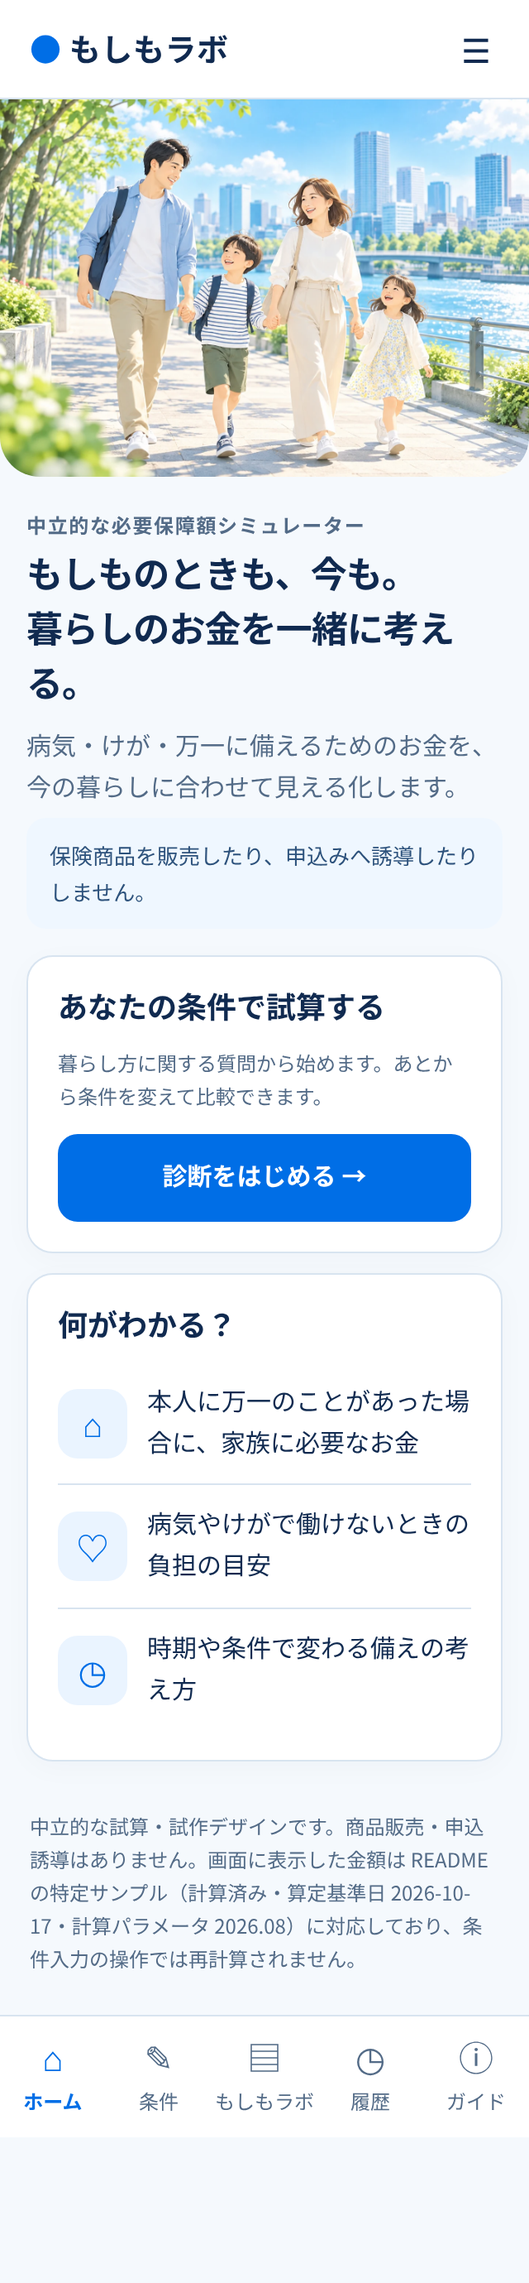
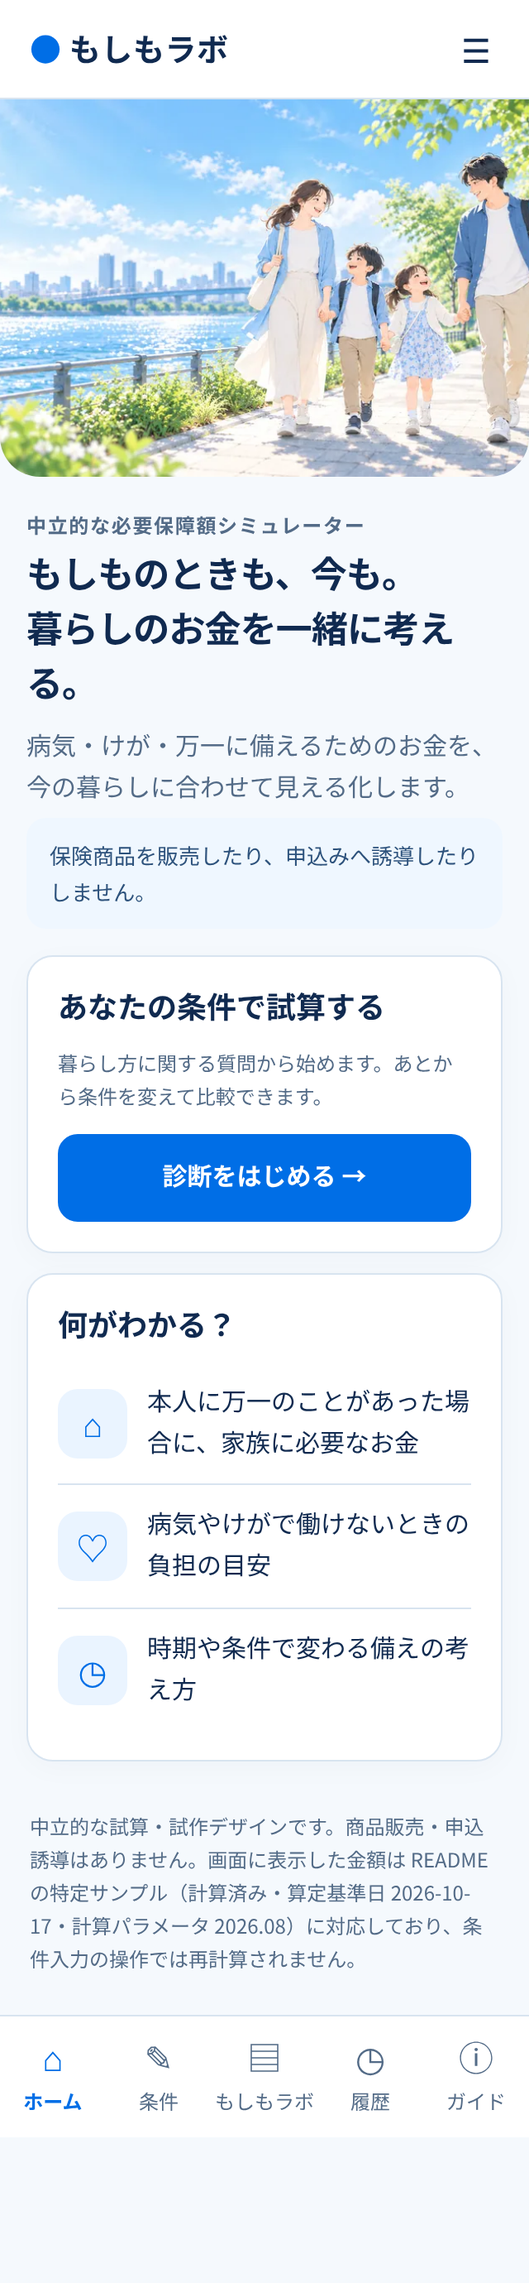
design: ホームを横長の家族イラストに差し替え、受け取った6枚の確認を ASSET_GAPS に書く
Claude-Session: https://claude.ai/code/session_01Fzmq9nUFPsWJRPivmmEeQQ

Changed region(s): [[0.0, 0.0312, 1.0, 0.2183]]

diff --git a/design/handoff/moshimo-lab-v2/prototype/index.html b/design/handoff/moshimo-lab-v2/prototype/index.html
@@ -1,7 +1,7 @@
 <!doctype html><html lang="ja"><head><meta charset="utf-8"><meta name="viewport" content="width=device-width,initial-scale=1"><title>もしもラボ｜UI Design Prototype（レビュー修正版）</title><style>
 :root{--ink:#102A50;--sub:#536B87;--blue:#006EE6;--light:#EAF4FF;--bg:#F5F9FD;--line:#D8E4F0;--green:#16734A;--orange:#925300;--card:#fff;--radius:16px;--focus-inner:#ffd43d;--focus-outer:#000}*{box-sizing:border-box}html{background:#dce8f3}body{margin:0;color:var(--ink);font:15px/1.65 'Noto Sans JP',-apple-system,BlinkMacSystemFont,'Hiragino Kaku Gothic ProN',sans-serif}button,input,select{font:inherit}button{cursor:pointer}.shell{width:min(100%,390px);min-height:100vh;margin:auto;background:var(--bg);box-shadow:0 10px 50px #173a5b25;padding-bottom:88px}.top{display:flex;align-items:center;justify-content:space-between;height:60px;background:white;padding:0 10px 0 18px;position:sticky;top:0;z-index:9;border-bottom:1px solid var(--line)}.brand{font-size:19px;font-weight:800;letter-spacing:.015em}.brand-dot{color:var(--blue)}.menu{border:0;background:none;color:var(--ink);font-size:20px;min-width:44px;min-height:44px;border-radius:10px}.screen{display:none}.screen.active{display:block}.section{padding:20px 16px 4px}.eyebrow{font-size:12px;color:var(--sub);font-weight:700;letter-spacing:.07em}.title{font-size:24px;line-height:1.4;letter-spacing:-.03em;margin:6px 0 8px;font-weight:800}.h2{font-size:18px;line-height:1.4;font-weight:800;margin:0 0 10px}.muted,.small{color:var(--sub)}.small{font-size:12px}.card{background:var(--card);border:1px solid var(--line);border-radius:var(--radius);padding:18px;margin:12px 16px;box-shadow:0 4px 18px #102a5007}.hero{position:relative;height:228px;overflow:hidden;background:linear-gradient(160deg,#e4f5ff,#fff);border-radius:0 0 24px 24px}.hero img{height:100%;width:100%;object-fit:cover;object-position:center;display:block}.hero-copy{font-size:22px;line-height:1.5;font-weight:800;letter-spacing:-.02em;margin:2px 0 10px}.btn{background:var(--blue);color:white;border:1px solid var(--blue);padding:13px 14px;border-radius:12px;font-weight:700;min-height:48px;text-align:center}.btn.secondary{color:var(--blue);background:white}.btn.quiet{color:var(--ink);background:var(--bg);border-color:var(--line)}.btn.full{width:100%}:where(a,button,input,select,summary,[tabindex]):focus-visible{outline:2px solid var(--focus-inner);outline-offset:0;box-shadow:0 0 0 4px var(--focus-outer)}.btnrow{display:flex;gap:8px}.btnrow>*{flex:1}.amount{color:var(--blue);font-size:28px;line-height:1.35;letter-spacing:-.05em;font-weight:800;margin:6px 0}.amount span{display:inline-block}.label{font-size:12px;color:var(--sub)}.badge{display:inline-flex;align-items:center;gap:4px;font-size:12px;padding:3px 10px;border-radius:99px;font-weight:700;line-height:1.5}.badge i{font-style:normal}.badge.good{color:var(--green);background:#E8F6EC}.badge.warn{color:var(--orange);background:#FFF1DE}.badge.unknown{color:#506A84;background:#EEF3F8}.hr{border:0;border-top:1px solid var(--line);margin:15px 0}.item{display:flex;align-items:center;gap:12px;padding:12px 0;border-bottom:1px solid var(--line)}.item:last-child{border-bottom:0}.iconbox{display:grid;place-items:center;width:42px;height:42px;background:var(--light);border-radius:12px;color:var(--blue);font-size:20px;flex-shrink:0}.grow{flex:1}.money{font-size:16px;color:var(--blue);font-weight:800}.tiny{font-size:12px;color:var(--sub)}.frow{display:flex;align-items:center;justify-content:space-between;gap:8px}.field{display:block;margin:18px 0}.field b{display:block;margin:0 0 7px;font-size:14px}.select{width:100%;min-height:48px;border:1px solid #B5CAE1;background:white;border-radius:10px;padding:10px;color:var(--ink)}.choicegroup{display:grid;grid-template-columns:repeat(2,1fr);gap:9px}.choice{min-height:54px;border:1px solid #c8d7e8;background:white;color:var(--ink);border-radius:12px;font-weight:700}.choice.on{border:2px solid var(--blue);background:#EAF4FF;color:#0054BD}.progress{height:5px;border-radius:5px;background:#DFE9F2;overflow:hidden}.progress i{display:block;width:40%;height:100%;background:var(--blue);border-radius:5px}.note{background:#EFF7FF;border-radius:12px;padding:12px 14px;color:#2D527C;font-size:13px}.note.warning{background:#FFF8EB;color:#795011}.graph{width:100%;height:auto;display:block}.graph text{font-size:12px;fill:#536B87}.graph .grid{stroke:#dde6ef;stroke-width:1}.range{fill:#f7d7bf}.curve{fill:none;stroke:#D76A2B;stroke-width:3;stroke-linecap:round;stroke-linejoin:round}.dot{fill:#D76A2B;stroke:#fff;stroke-width:2}.guide-line{stroke:#D76A2B;stroke-width:1;stroke-dasharray:3 3}.legend{display:flex;flex-wrap:wrap;gap:4px 14px;font-size:12px;color:var(--sub);margin:4px 0 8px}.legend i{display:inline-block;width:18px;height:10px;border-radius:3px;margin-right:5px;vertical-align:-1px}.legend .lg-range{background:#f7d7bf}.legend .lg-curve{height:3px;background:#D76A2B;vertical-align:3px}.slider{width:100%;accent-color:var(--blue);height:44px;margin:0}.ends{display:flex;justify-content:space-between;font-size:12px;color:var(--sub);margin-top:-6px}.bottom{position:fixed;bottom:0;left:50%;transform:translateX(-50%);width:min(100%,390px);height:74px;display:flex;background:#fff;border-top:1px solid var(--line);z-index:11}.navbtn{flex:1;background:none;border:0;color:var(--sub);display:flex;flex-direction:column;align-items:center;justify-content:center;gap:2px;padding:7px 1px;font-size:12px}.navbtn span{font-size:21px;line-height:1.3}.navbtn.on{color:var(--blue);font-weight:800}.padded{padding:0 16px}.details{padding:4px 0 12px;font-size:13px;color:var(--sub)}.details ul{margin:0;padding-left:1.2em}.details li{margin:4px 0}details{border-top:1px solid var(--line);margin-top:12px}summary{font-weight:700;cursor:pointer;min-height:44px;display:flex;align-items:center;gap:6px;list-style:none}summary::-webkit-details-marker{display:none}summary::before{content:'';flex-shrink:0;width:0;height:0;border-left:6px solid currentColor;border-top:5px solid transparent;border-bottom:5px solid transparent;transition:transform .15s}details[open]>summary::before{transform:rotate(90deg)}.foot{font-size:12px;color:var(--sub);padding:18px 18px 24px}.empty{border:1px dashed #bbcfe5;border-radius:13px;padding:18px;text-align:center;color:var(--sub)}.scenario{background:none;border:0;border-bottom:1px solid var(--line);width:100%;text-align:left;color:inherit;min-height:44px}.scenario b{font-size:13px}.chev{color:var(--sub);font-size:18px}.meaning{padding:12px 0;border-bottom:1px solid var(--line)}.meaning p{margin:6px 0 0}.kv{display:flex;justify-content:space-between;gap:12px;font-size:13px;padding:6px 0;border-bottom:1px dashed var(--line)}.kv:last-child{border-bottom:0}table.ages{width:100%;border-collapse:collapse;font-size:13px}table.ages th,table.ages td{text-align:left;padding:6px 4px;border-bottom:1px solid var(--line)}table.ages td:last-child,table.ages th:last-child{text-align:right}.sr{position:absolute;width:1px;height:1px;overflow:hidden;clip:rect(0 0 0 0);white-space:nowrap}
 </style></head><body><main class="shell"><header class="top"><div class="brand"><span class="brand-dot" aria-hidden="true">●</span> もしもラボ</div><button class="menu" aria-label="結果の見方ガイドへ" title="結果の見方ガイドへ" onclick="show('guide')"><span aria-hidden="true">☰</span></button></header>
-<section class="screen active" id="home"><div class="hero"><img src="../assets/family-riverside.webp" alt="川辺を散歩する4人の家族"></div><div class="section"><div class="eyebrow">中立的な必要保障額シミュレーター</div><h1 class="hero-copy">もしものときも、今も。<br>暮らしのお金を一緒に考える。</h1><p class="muted" style="margin:6px 0">病気・けが・万一に備えるためのお金を、今の暮らしに合わせて見える化します。</p><div class="note">保険商品を販売したり、申込みへ誘導したりしません。</div></div><div class="card"><h2 class="h2">あなたの条件で試算する</h2><p class="small">暮らし方に関する質問から始めます。あとから条件を変えて比較できます。</p><button class="btn full" onclick="show('input')">診断をはじめる <span aria-hidden="true">→</span></button></div><div class="card"><h2 class="h2">何がわかる？</h2><div class="item"><div class="iconbox" aria-hidden="true">⌂</div><div>本人に万一のことがあった場合に、家族に必要なお金</div></div><div class="item"><div class="iconbox" aria-hidden="true">♡</div><div>病気やけがで働けないときの負担の目安</div></div><div class="item"><div class="iconbox" aria-hidden="true">◷</div><div>時期や条件で変わる備えの考え方</div></div></div></section>
+<section class="screen active" id="home"><div class="hero"><img src="../assets/family-riverside-wide-800.webp" srcset="../assets/family-riverside-wide-800.webp 800w, ../assets/family-riverside-wide.webp 1280w" sizes="(max-width: 390px) 100vw, 390px" alt="川辺を散歩する4人の家族"></div><div class="section"><div class="eyebrow">中立的な必要保障額シミュレーター</div><h1 class="hero-copy">もしものときも、今も。<br>暮らしのお金を一緒に考える。</h1><p class="muted" style="margin:6px 0">病気・けが・万一に備えるためのお金を、今の暮らしに合わせて見える化します。</p><div class="note">保険商品を販売したり、申込みへ誘導したりしません。</div></div><div class="card"><h2 class="h2">あなたの条件で試算する</h2><p class="small">暮らし方に関する質問から始めます。あとから条件を変えて比較できます。</p><button class="btn full" onclick="show('input')">診断をはじめる <span aria-hidden="true">→</span></button></div><div class="card"><h2 class="h2">何がわかる？</h2><div class="item"><div class="iconbox" aria-hidden="true">⌂</div><div>本人に万一のことがあった場合に、家族に必要なお金</div></div><div class="item"><div class="iconbox" aria-hidden="true">♡</div><div>病気やけがで働けないときの負担の目安</div></div><div class="item"><div class="iconbox" aria-hidden="true">◷</div><div>時期や条件で変わる備えの考え方</div></div></div></section>
 <section class="screen" id="input"><div class="section"><div class="eyebrow">STEP 2 / 5　暮らしの条件</div><div class="progress" role="progressbar" aria-label="入力の進み具合" aria-valuemin="1" aria-valuemax="5" aria-valuenow="2"><i></i></div><h1 class="title">今の暮らしについて<br>教えてください</h1><p class="muted">試算に必要な条件を確認します。実際の実装では計算エンジンが要求するすべての入力を保持します。</p></div><div class="card"><div class="field" role="group" aria-labelledby="familyLabel"><b id="familyLabel">家族構成</b><div class="choicegroup" id="familyChoices"><button class="choice" aria-pressed="false" onclick="choose(this)">単身</button><button class="choice" aria-pressed="false" onclick="choose(this)">夫婦のみ</button><button class="choice on" aria-pressed="true" onclick="choose(this)">夫婦＋子ども</button><button class="choice" aria-pressed="false" onclick="choose(this)">その他</button></div></div><label class="field"><b>本人の年齢</b><select class="select" id="age"><option>30歳</option><option selected>40歳</option><option>50歳</option><option>60歳</option></select></label><label class="field"><b>本人の年収</b><select class="select"><option selected>400万円以下</option><option>400〜600万円</option><option>600〜800万円</option><option>800〜1000万円</option><option>1000万円以上</option><option>答えたくない</option></select></label><label class="field"><b>現在の貯蓄</b><select class="select"><option selected>100万円以下</option><option>100〜300万円</option><option>300〜500万円</option><option>500〜1000万円</option><option>1000万円以上</option><option>分からない</option></select></label><div class="note">本画面はUI試作です。入力内容は保存・計算されません。選択肢の言葉は現行の質問（<code>src/wizard/labels.ts</code>）に合わせています。</div></div><div class="padded btnrow"><button class="btn secondary" onclick="show('home')">戻る</button><button class="btn" onclick="show('summary')">結果表示例へ <span aria-hidden="true">→</span></button></div></section>
 <section class="screen" id="summary"><div class="section"><div class="eyebrow">診断サマリー・サンプル</div><h1 class="title">必要なお金の目安を<br>確認しましょう</h1><p class="small">下記は特定のサンプル条件で計算済みの参考値です。今の画面入力には連動していません。</p></div><div class="card"><div class="small">本人が40歳で万一のことがあった場合</div><div class="label">必要な死亡保障の目安</div><div class="amount" id="summaryAmount"></div><span id="summaryBadge"></span><hr class="hr"><h2 class="h2">年齢による変化</h2><div class="legend" aria-hidden="true"><span><i class="lg-range"></i>必要額の幅</span><span><i class="lg-curve"></i>代表値</span></div><div id="summaryChart"></div><p class="small">計算済みサンプルの40〜64歳・25年分の値をそのまま描いています。縦軸は金額に比例します。</p><button class="btn secondary full" onclick="show('lab')">もしもラボで詳しく見る <span aria-hidden="true">→</span></button></div><div class="card"><h2 class="h2">診断結果の見方</h2><p class="muted">「不足の可能性」は入力条件に基づく判定です。保険への加入や購入を勧めるものではありません。</p><button class="btn quiet full" onclick="show('guide')">判定の意味を確認する</button></div></section>
 <section class="screen" id="lab"><div class="section"><div class="eyebrow">7つのもしもを比較</div><h1 class="title">もしものとき、<br>どんなお金が必要？</h1><p class="muted">それぞれ独立した試算です。金額は足し合わせたり、異なる算定方法のケースを単純に順位づけたりしません。</p></div><div class="card"><h2 class="h2">医療・休職などのケース</h2><p class="small" style="margin-top:-4px">貯蓄の比較帯：<b id="savingsBand"></b>と比べた判定です。</p><div id="scenarioList"></div><div class="note">「未算定」のケースは必要額を推測せず、表示を分けています。</div></div><div class="card"><h2 class="h2">本人に万一のことがあった場合</h2><div class="small" id="deathCaption"></div><div class="amount" id="labAmount" aria-live="polite"></div><span id="labBadge"></span><p class="small">死亡保障は資産等の控除後の計算であり、病気や休職の費用とは直接比較できません。</p><div class="legend" aria-hidden="true"><span><i class="lg-range"></i>必要額の幅</span><span><i class="lg-curve"></i>代表値</span></div><div id="labChart"></div><label class="field" for="ageSlider" style="margin-bottom:4px"><b>万一の年齢 <span id="ageout">40歳</span></b></label><input class="slider" id="ageSlider" type="range" min="40" max="64" value="40" oninput="setAge(+this.value)"/><div class="ends" aria-hidden="true"><span>40歳・いま</span><span>64歳</span></div><div class="note warning" style="margin-top:12px">年齢を動かすと、計算済みサンプルの25年分（40〜64歳）の値に切り替わります。条件入力の画面とは連動しません。</div><details><summary>年齢ごとの金額（25年分）</summary><div class="details"><table class="ages"><thead><tr><th>本人の年齢</th><th>必要な死亡保障のめやす</th></tr></thead><tbody id="ageTable"></tbody></table></div></details><button class="btn secondary full" style="margin-top:12px" data-death-detail onclick="detail('death')">計算の前提を見る <span aria-hidden="true">→</span></button></div></section>

diff --git a/design/handoff/moshimo-lab-v2/index.html b/design/handoff/moshimo-lab-v2/index.html
@@ -1,7 +1,7 @@
 <!doctype html><html lang="ja"><head><meta charset="utf-8"><meta name="viewport" content="width=device-width,initial-scale=1"><title>もしもラボ｜UI Design Prototype（レビュー修正版）</title><style>
 :root{--ink:#102A50;--sub:#536B87;--blue:#006EE6;--light:#EAF4FF;--bg:#F5F9FD;--line:#D8E4F0;--green:#16734A;--orange:#925300;--card:#fff;--radius:16px;--focus-inner:#ffd43d;--focus-outer:#000}*{box-sizing:border-box}html{background:#dce8f3}body{margin:0;color:var(--ink);font:15px/1.65 'Noto Sans JP',-apple-system,BlinkMacSystemFont,'Hiragino Kaku Gothic ProN',sans-serif}button,input,select{font:inherit}button{cursor:pointer}.shell{width:min(100%,390px);min-height:100vh;margin:auto;background:var(--bg);box-shadow:0 10px 50px #173a5b25;padding-bottom:88px}.top{display:flex;align-items:center;justify-content:space-between;height:60px;background:white;padding:0 10px 0 18px;position:sticky;top:0;z-index:9;border-bottom:1px solid var(--line)}.brand{font-size:19px;font-weight:800;letter-spacing:.015em}.brand-dot{color:var(--blue)}.menu{border:0;background:none;color:var(--ink);font-size:20px;min-width:44px;min-height:44px;border-radius:10px}.screen{display:none}.screen.active{display:block}.section{padding:20px 16px 4px}.eyebrow{font-size:12px;color:var(--sub);font-weight:700;letter-spacing:.07em}.title{font-size:24px;line-height:1.4;letter-spacing:-.03em;margin:6px 0 8px;font-weight:800}.h2{font-size:18px;line-height:1.4;font-weight:800;margin:0 0 10px}.muted,.small{color:var(--sub)}.small{font-size:12px}.card{background:var(--card);border:1px solid var(--line);border-radius:var(--radius);padding:18px;margin:12px 16px;box-shadow:0 4px 18px #102a5007}.hero{position:relative;height:228px;overflow:hidden;background:linear-gradient(160deg,#e4f5ff,#fff);border-radius:0 0 24px 24px}.hero img{height:100%;width:100%;object-fit:cover;object-position:center;display:block}.hero-copy{font-size:22px;line-height:1.5;font-weight:800;letter-spacing:-.02em;margin:2px 0 10px}.btn{background:var(--blue);color:white;border:1px solid var(--blue);padding:13px 14px;border-radius:12px;font-weight:700;min-height:48px;text-align:center}.btn.secondary{color:var(--blue);background:white}.btn.quiet{color:var(--ink);background:var(--bg);border-color:var(--line)}.btn.full{width:100%}:where(a,button,input,select,summary,[tabindex]):focus-visible{outline:2px solid var(--focus-inner);outline-offset:0;box-shadow:0 0 0 4px var(--focus-outer)}.btnrow{display:flex;gap:8px}.btnrow>*{flex:1}.amount{color:var(--blue);font-size:28px;line-height:1.35;letter-spacing:-.05em;font-weight:800;margin:6px 0}.amount span{display:inline-block}.label{font-size:12px;color:var(--sub)}.badge{display:inline-flex;align-items:center;gap:4px;font-size:12px;padding:3px 10px;border-radius:99px;font-weight:700;line-height:1.5}.badge i{font-style:normal}.badge.good{color:var(--green);background:#E8F6EC}.badge.warn{color:var(--orange);background:#FFF1DE}.badge.unknown{color:#506A84;background:#EEF3F8}.hr{border:0;border-top:1px solid var(--line);margin:15px 0}.item{display:flex;align-items:center;gap:12px;padding:12px 0;border-bottom:1px solid var(--line)}.item:last-child{border-bottom:0}.iconbox{display:grid;place-items:center;width:42px;height:42px;background:var(--light);border-radius:12px;color:var(--blue);font-size:20px;flex-shrink:0}.grow{flex:1}.money{font-size:16px;color:var(--blue);font-weight:800}.tiny{font-size:12px;color:var(--sub)}.frow{display:flex;align-items:center;justify-content:space-between;gap:8px}.field{display:block;margin:18px 0}.field b{display:block;margin:0 0 7px;font-size:14px}.select{width:100%;min-height:48px;border:1px solid #B5CAE1;background:white;border-radius:10px;padding:10px;color:var(--ink)}.choicegroup{display:grid;grid-template-columns:repeat(2,1fr);gap:9px}.choice{min-height:54px;border:1px solid #c8d7e8;background:white;color:var(--ink);border-radius:12px;font-weight:700}.choice.on{border:2px solid var(--blue);background:#EAF4FF;color:#0054BD}.progress{height:5px;border-radius:5px;background:#DFE9F2;overflow:hidden}.progress i{display:block;width:40%;height:100%;background:var(--blue);border-radius:5px}.note{background:#EFF7FF;border-radius:12px;padding:12px 14px;color:#2D527C;font-size:13px}.note.warning{background:#FFF8EB;color:#795011}.graph{width:100%;height:auto;display:block}.graph text{font-size:12px;fill:#536B87}.graph .grid{stroke:#dde6ef;stroke-width:1}.range{fill:#f7d7bf}.curve{fill:none;stroke:#D76A2B;stroke-width:3;stroke-linecap:round;stroke-linejoin:round}.dot{fill:#D76A2B;stroke:#fff;stroke-width:2}.guide-line{stroke:#D76A2B;stroke-width:1;stroke-dasharray:3 3}.legend{display:flex;flex-wrap:wrap;gap:4px 14px;font-size:12px;color:var(--sub);margin:4px 0 8px}.legend i{display:inline-block;width:18px;height:10px;border-radius:3px;margin-right:5px;vertical-align:-1px}.legend .lg-range{background:#f7d7bf}.legend .lg-curve{height:3px;background:#D76A2B;vertical-align:3px}.slider{width:100%;accent-color:var(--blue);height:44px;margin:0}.ends{display:flex;justify-content:space-between;font-size:12px;color:var(--sub);margin-top:-6px}.bottom{position:fixed;bottom:0;left:50%;transform:translateX(-50%);width:min(100%,390px);height:74px;display:flex;background:#fff;border-top:1px solid var(--line);z-index:11}.navbtn{flex:1;background:none;border:0;color:var(--sub);display:flex;flex-direction:column;align-items:center;justify-content:center;gap:2px;padding:7px 1px;font-size:12px}.navbtn span{font-size:21px;line-height:1.3}.navbtn.on{color:var(--blue);font-weight:800}.padded{padding:0 16px}.details{padding:4px 0 12px;font-size:13px;color:var(--sub)}.details ul{margin:0;padding-left:1.2em}.details li{margin:4px 0}details{border-top:1px solid var(--line);margin-top:12px}summary{font-weight:700;cursor:pointer;min-height:44px;display:flex;align-items:center;gap:6px;list-style:none}summary::-webkit-details-marker{display:none}summary::before{content:'';flex-shrink:0;width:0;height:0;border-left:6px solid currentColor;border-top:5px solid transparent;border-bottom:5px solid transparent;transition:transform .15s}details[open]>summary::before{transform:rotate(90deg)}.foot{font-size:12px;color:var(--sub);padding:18px 18px 24px}.empty{border:1px dashed #bbcfe5;border-radius:13px;padding:18px;text-align:center;color:var(--sub)}.scenario{background:none;border:0;border-bottom:1px solid var(--line);width:100%;text-align:left;color:inherit;min-height:44px}.scenario b{font-size:13px}.chev{color:var(--sub);font-size:18px}.meaning{padding:12px 0;border-bottom:1px solid var(--line)}.meaning p{margin:6px 0 0}.kv{display:flex;justify-content:space-between;gap:12px;font-size:13px;padding:6px 0;border-bottom:1px dashed var(--line)}.kv:last-child{border-bottom:0}table.ages{width:100%;border-collapse:collapse;font-size:13px}table.ages th,table.ages td{text-align:left;padding:6px 4px;border-bottom:1px solid var(--line)}table.ages td:last-child,table.ages th:last-child{text-align:right}.sr{position:absolute;width:1px;height:1px;overflow:hidden;clip:rect(0 0 0 0);white-space:nowrap}
 </style></head><body><main class="shell"><header class="top"><div class="brand"><span class="brand-dot" aria-hidden="true">●</span> もしもラボ</div><button class="menu" aria-label="結果の見方ガイドへ" title="結果の見方ガイドへ" onclick="show('guide')"><span aria-hidden="true">☰</span></button></header>
-<section class="screen active" id="home"><div class="hero"><img src="assets/family-riverside.webp" alt="川辺を散歩する4人の家族"></div><div class="section"><div class="eyebrow">中立的な必要保障額シミュレーター</div><h1 class="hero-copy">もしものときも、今も。<br>暮らしのお金を一緒に考える。</h1><p class="muted" style="margin:6px 0">病気・けが・万一に備えるためのお金を、今の暮らしに合わせて見える化します。</p><div class="note">保険商品を販売したり、申込みへ誘導したりしません。</div></div><div class="card"><h2 class="h2">あなたの条件で試算する</h2><p class="small">暮らし方に関する質問から始めます。あとから条件を変えて比較できます。</p><button class="btn full" onclick="show('input')">診断をはじめる <span aria-hidden="true">→</span></button></div><div class="card"><h2 class="h2">何がわかる？</h2><div class="item"><div class="iconbox" aria-hidden="true">⌂</div><div>本人に万一のことがあった場合に、家族に必要なお金</div></div><div class="item"><div class="iconbox" aria-hidden="true">♡</div><div>病気やけがで働けないときの負担の目安</div></div><div class="item"><div class="iconbox" aria-hidden="true">◷</div><div>時期や条件で変わる備えの考え方</div></div></div></section>
+<section class="screen active" id="home"><div class="hero"><img src="assets/family-riverside-wide-800.webp" srcset="assets/family-riverside-wide-800.webp 800w, assets/family-riverside-wide.webp 1280w" sizes="(max-width: 390px) 100vw, 390px" alt="川辺を散歩する4人の家族"></div><div class="section"><div class="eyebrow">中立的な必要保障額シミュレーター</div><h1 class="hero-copy">もしものときも、今も。<br>暮らしのお金を一緒に考える。</h1><p class="muted" style="margin:6px 0">病気・けが・万一に備えるためのお金を、今の暮らしに合わせて見える化します。</p><div class="note">保険商品を販売したり、申込みへ誘導したりしません。</div></div><div class="card"><h2 class="h2">あなたの条件で試算する</h2><p class="small">暮らし方に関する質問から始めます。あとから条件を変えて比較できます。</p><button class="btn full" onclick="show('input')">診断をはじめる <span aria-hidden="true">→</span></button></div><div class="card"><h2 class="h2">何がわかる？</h2><div class="item"><div class="iconbox" aria-hidden="true">⌂</div><div>本人に万一のことがあった場合に、家族に必要なお金</div></div><div class="item"><div class="iconbox" aria-hidden="true">♡</div><div>病気やけがで働けないときの負担の目安</div></div><div class="item"><div class="iconbox" aria-hidden="true">◷</div><div>時期や条件で変わる備えの考え方</div></div></div></section>
 <section class="screen" id="input"><div class="section"><div class="eyebrow">STEP 2 / 5　暮らしの条件</div><div class="progress" role="progressbar" aria-label="入力の進み具合" aria-valuemin="1" aria-valuemax="5" aria-valuenow="2"><i></i></div><h1 class="title">今の暮らしについて<br>教えてください</h1><p class="muted">試算に必要な条件を確認します。実際の実装では計算エンジンが要求するすべての入力を保持します。</p></div><div class="card"><div class="field" role="group" aria-labelledby="familyLabel"><b id="familyLabel">家族構成</b><div class="choicegroup" id="familyChoices"><button class="choice" aria-pressed="false" onclick="choose(this)">単身</button><button class="choice" aria-pressed="false" onclick="choose(this)">夫婦のみ</button><button class="choice on" aria-pressed="true" onclick="choose(this)">夫婦＋子ども</button><button class="choice" aria-pressed="false" onclick="choose(this)">その他</button></div></div><label class="field"><b>本人の年齢</b><select class="select" id="age"><option>30歳</option><option selected>40歳</option><option>50歳</option><option>60歳</option></select></label><label class="field"><b>本人の年収</b><select class="select"><option selected>400万円以下</option><option>400〜600万円</option><option>600〜800万円</option><option>800〜1000万円</option><option>1000万円以上</option><option>答えたくない</option></select></label><label class="field"><b>現在の貯蓄</b><select class="select"><option selected>100万円以下</option><option>100〜300万円</option><option>300〜500万円</option><option>500〜1000万円</option><option>1000万円以上</option><option>分からない</option></select></label><div class="note">本画面はUI試作です。入力内容は保存・計算されません。選択肢の言葉は現行の質問（<code>src/wizard/labels.ts</code>）に合わせています。</div></div><div class="padded btnrow"><button class="btn secondary" onclick="show('home')">戻る</button><button class="btn" onclick="show('summary')">結果表示例へ <span aria-hidden="true">→</span></button></div></section>
 <section class="screen" id="summary"><div class="section"><div class="eyebrow">診断サマリー・サンプル</div><h1 class="title">必要なお金の目安を<br>確認しましょう</h1><p class="small">下記は特定のサンプル条件で計算済みの参考値です。今の画面入力には連動していません。</p></div><div class="card"><div class="small">本人が40歳で万一のことがあった場合</div><div class="label">必要な死亡保障の目安</div><div class="amount" id="summaryAmount"></div><span id="summaryBadge"></span><hr class="hr"><h2 class="h2">年齢による変化</h2><div class="legend" aria-hidden="true"><span><i class="lg-range"></i>必要額の幅</span><span><i class="lg-curve"></i>代表値</span></div><div id="summaryChart"></div><p class="small">計算済みサンプルの40〜64歳・25年分の値をそのまま描いています。縦軸は金額に比例します。</p><button class="btn secondary full" onclick="show('lab')">もしもラボで詳しく見る <span aria-hidden="true">→</span></button></div><div class="card"><h2 class="h2">診断結果の見方</h2><p class="muted">「不足の可能性」は入力条件に基づく判定です。保険への加入や購入を勧めるものではありません。</p><button class="btn quiet full" onclick="show('guide')">判定の意味を確認する</button></div></section>
 <section class="screen" id="lab"><div class="section"><div class="eyebrow">7つのもしもを比較</div><h1 class="title">もしものとき、<br>どんなお金が必要？</h1><p class="muted">それぞれ独立した試算です。金額は足し合わせたり、異なる算定方法のケースを単純に順位づけたりしません。</p></div><div class="card"><h2 class="h2">医療・休職などのケース</h2><p class="small" style="margin-top:-4px">貯蓄の比較帯：<b id="savingsBand"></b>と比べた判定です。</p><div id="scenarioList"></div><div class="note">「未算定」のケースは必要額を推測せず、表示を分けています。</div></div><div class="card"><h2 class="h2">本人に万一のことがあった場合</h2><div class="small" id="deathCaption"></div><div class="amount" id="labAmount" aria-live="polite"></div><span id="labBadge"></span><p class="small">死亡保障は資産等の控除後の計算であり、病気や休職の費用とは直接比較できません。</p><div class="legend" aria-hidden="true"><span><i class="lg-range"></i>必要額の幅</span><span><i class="lg-curve"></i>代表値</span></div><div id="labChart"></div><label class="field" for="ageSlider" style="margin-bottom:4px"><b>万一の年齢 <span id="ageout">40歳</span></b></label><input class="slider" id="ageSlider" type="range" min="40" max="64" value="40" oninput="setAge(+this.value)"/><div class="ends" aria-hidden="true"><span>40歳・いま</span><span>64歳</span></div><div class="note warning" style="margin-top:12px">年齢を動かすと、計算済みサンプルの25年分（40〜64歳）の値に切り替わります。条件入力の画面とは連動しません。</div><details><summary>年齢ごとの金額（25年分）</summary><div class="details"><table class="ages"><thead><tr><th>本人の年齢</th><th>必要な死亡保障のめやす</th></tr></thead><tbody id="ageTable"></tbody></table></div></details><button class="btn secondary full" style="margin-top:12px" data-death-detail onclick="detail('death')">計算の前提を見る <span aria-hidden="true">→</span></button></div></section>

diff --git a/design/handoff/moshimo-lab-v2/tools/prototype.template.html b/design/handoff/moshimo-lab-v2/tools/prototype.template.html
@@ -1,7 +1,7 @@
 <!doctype html><html lang="ja"><head><meta charset="utf-8"><meta name="viewport" content="width=device-width,initial-scale=1"><title>もしもラボ｜UI Design Prototype（レビュー修正版）</title><style>
 :root{--ink:#102A50;--sub:#536B87;--blue:#006EE6;--light:#EAF4FF;--bg:#F5F9FD;--line:#D8E4F0;--green:#16734A;--orange:#925300;--card:#fff;--radius:16px;--focus-inner:#ffd43d;--focus-outer:#000}*{box-sizing:border-box}html{background:#dce8f3}body{margin:0;color:var(--ink);font:15px/1.65 'Noto Sans JP',-apple-system,BlinkMacSystemFont,'Hiragino Kaku Gothic ProN',sans-serif}button,input,select{font:inherit}button{cursor:pointer}.shell{width:min(100%,390px);min-height:100vh;margin:auto;background:var(--bg);box-shadow:0 10px 50px #173a5b25;padding-bottom:88px}.top{display:flex;align-items:center;justify-content:space-between;height:60px;background:white;padding:0 10px 0 18px;position:sticky;top:0;z-index:9;border-bottom:1px solid var(--line)}.brand{font-size:19px;font-weight:800;letter-spacing:.015em}.brand-dot{color:var(--blue)}.menu{border:0;background:none;color:var(--ink);font-size:20px;min-width:44px;min-height:44px;border-radius:10px}.screen{display:none}.screen.active{display:block}.section{padding:20px 16px 4px}.eyebrow{font-size:12px;color:var(--sub);font-weight:700;letter-spacing:.07em}.title{font-size:24px;line-height:1.4;letter-spacing:-.03em;margin:6px 0 8px;font-weight:800}.h2{font-size:18px;line-height:1.4;font-weight:800;margin:0 0 10px}.muted,.small{color:var(--sub)}.small{font-size:12px}.card{background:var(--card);border:1px solid var(--line);border-radius:var(--radius);padding:18px;margin:12px 16px;box-shadow:0 4px 18px #102a5007}.hero{position:relative;height:228px;overflow:hidden;background:linear-gradient(160deg,#e4f5ff,#fff);border-radius:0 0 24px 24px}.hero img{height:100%;width:100%;object-fit:cover;object-position:center;display:block}.hero-copy{font-size:22px;line-height:1.5;font-weight:800;letter-spacing:-.02em;margin:2px 0 10px}.btn{background:var(--blue);color:white;border:1px solid var(--blue);padding:13px 14px;border-radius:12px;font-weight:700;min-height:48px;text-align:center}.btn.secondary{color:var(--blue);background:white}.btn.quiet{color:var(--ink);background:var(--bg);border-color:var(--line)}.btn.full{width:100%}:where(a,button,input,select,summary,[tabindex]):focus-visible{outline:2px solid var(--focus-inner);outline-offset:0;box-shadow:0 0 0 4px var(--focus-outer)}.btnrow{display:flex;gap:8px}.btnrow>*{flex:1}.amount{color:var(--blue);font-size:28px;line-height:1.35;letter-spacing:-.05em;font-weight:800;margin:6px 0}.amount span{display:inline-block}.label{font-size:12px;color:var(--sub)}.badge{display:inline-flex;align-items:center;gap:4px;font-size:12px;padding:3px 10px;border-radius:99px;font-weight:700;line-height:1.5}.badge i{font-style:normal}.badge.good{color:var(--green);background:#E8F6EC}.badge.warn{color:var(--orange);background:#FFF1DE}.badge.unknown{color:#506A84;background:#EEF3F8}.hr{border:0;border-top:1px solid var(--line);margin:15px 0}.item{display:flex;align-items:center;gap:12px;padding:12px 0;border-bottom:1px solid var(--line)}.item:last-child{border-bottom:0}.iconbox{display:grid;place-items:center;width:42px;height:42px;background:var(--light);border-radius:12px;color:var(--blue);font-size:20px;flex-shrink:0}.grow{flex:1}.money{font-size:16px;color:var(--blue);font-weight:800}.tiny{font-size:12px;color:var(--sub)}.frow{display:flex;align-items:center;justify-content:space-between;gap:8px}.field{display:block;margin:18px 0}.field b{display:block;margin:0 0 7px;font-size:14px}.select{width:100%;min-height:48px;border:1px solid #B5CAE1;background:white;border-radius:10px;padding:10px;color:var(--ink)}.choicegroup{display:grid;grid-template-columns:repeat(2,1fr);gap:9px}.choice{min-height:54px;border:1px solid #c8d7e8;background:white;color:var(--ink);border-radius:12px;font-weight:700}.choice.on{border:2px solid var(--blue);background:#EAF4FF;color:#0054BD}.progress{height:5px;border-radius:5px;background:#DFE9F2;overflow:hidden}.progress i{display:block;width:40%;height:100%;background:var(--blue);border-radius:5px}.note{background:#EFF7FF;border-radius:12px;padding:12px 14px;color:#2D527C;font-size:13px}.note.warning{background:#FFF8EB;color:#795011}.graph{width:100%;height:auto;display:block}.graph text{font-size:12px;fill:#536B87}.graph .grid{stroke:#dde6ef;stroke-width:1}.range{fill:#f7d7bf}.curve{fill:none;stroke:#D76A2B;stroke-width:3;stroke-linecap:round;stroke-linejoin:round}.dot{fill:#D76A2B;stroke:#fff;stroke-width:2}.guide-line{stroke:#D76A2B;stroke-width:1;stroke-dasharray:3 3}.legend{display:flex;flex-wrap:wrap;gap:4px 14px;font-size:12px;color:var(--sub);margin:4px 0 8px}.legend i{display:inline-block;width:18px;height:10px;border-radius:3px;margin-right:5px;vertical-align:-1px}.legend .lg-range{background:#f7d7bf}.legend .lg-curve{height:3px;background:#D76A2B;vertical-align:3px}.slider{width:100%;accent-color:var(--blue);height:44px;margin:0}.ends{display:flex;justify-content:space-between;font-size:12px;color:var(--sub);margin-top:-6px}.bottom{position:fixed;bottom:0;left:50%;transform:translateX(-50%);width:min(100%,390px);height:74px;display:flex;background:#fff;border-top:1px solid var(--line);z-index:11}.navbtn{flex:1;background:none;border:0;color:var(--sub);display:flex;flex-direction:column;align-items:center;justify-content:center;gap:2px;padding:7px 1px;font-size:12px}.navbtn span{font-size:21px;line-height:1.3}.navbtn.on{color:var(--blue);font-weight:800}.padded{padding:0 16px}.details{padding:4px 0 12px;font-size:13px;color:var(--sub)}.details ul{margin:0;padding-left:1.2em}.details li{margin:4px 0}details{border-top:1px solid var(--line);margin-top:12px}summary{font-weight:700;cursor:pointer;min-height:44px;display:flex;align-items:center;gap:6px;list-style:none}summary::-webkit-details-marker{display:none}summary::before{content:'';flex-shrink:0;width:0;height:0;border-left:6px solid currentColor;border-top:5px solid transparent;border-bottom:5px solid transparent;transition:transform .15s}details[open]>summary::before{transform:rotate(90deg)}.foot{font-size:12px;color:var(--sub);padding:18px 18px 24px}.empty{border:1px dashed #bbcfe5;border-radius:13px;padding:18px;text-align:center;color:var(--sub)}.scenario{background:none;border:0;border-bottom:1px solid var(--line);width:100%;text-align:left;color:inherit;min-height:44px}.scenario b{font-size:13px}.chev{color:var(--sub);font-size:18px}.meaning{padding:12px 0;border-bottom:1px solid var(--line)}.meaning p{margin:6px 0 0}.kv{display:flex;justify-content:space-between;gap:12px;font-size:13px;padding:6px 0;border-bottom:1px dashed var(--line)}.kv:last-child{border-bottom:0}table.ages{width:100%;border-collapse:collapse;font-size:13px}table.ages th,table.ages td{text-align:left;padding:6px 4px;border-bottom:1px solid var(--line)}table.ages td:last-child,table.ages th:last-child{text-align:right}.sr{position:absolute;width:1px;height:1px;overflow:hidden;clip:rect(0 0 0 0);white-space:nowrap}
 </style></head><body><main class="shell"><header class="top"><div class="brand"><span class="brand-dot" aria-hidden="true">●</span> もしもラボ</div><button class="menu" aria-label="結果の見方ガイドへ" title="結果の見方ガイドへ" onclick="show('guide')"><span aria-hidden="true">☰</span></button></header>
-<section class="screen active" id="home"><div class="hero"><img src="__ASSET__family-riverside.webp" alt="川辺を散歩する4人の家族"></div><div class="section"><div class="eyebrow">中立的な必要保障額シミュレーター</div><h1 class="hero-copy">もしものときも、今も。<br>暮らしのお金を一緒に考える。</h1><p class="muted" style="margin:6px 0">病気・けが・万一に備えるためのお金を、今の暮らしに合わせて見える化します。</p><div class="note">保険商品を販売したり、申込みへ誘導したりしません。</div></div><div class="card"><h2 class="h2">あなたの条件で試算する</h2><p class="small">暮らし方に関する質問から始めます。あとから条件を変えて比較できます。</p><button class="btn full" onclick="show('input')">診断をはじめる <span aria-hidden="true">→</span></button></div><div class="card"><h2 class="h2">何がわかる？</h2><div class="item"><div class="iconbox" aria-hidden="true">⌂</div><div>本人に万一のことがあった場合に、家族に必要なお金</div></div><div class="item"><div class="iconbox" aria-hidden="true">♡</div><div>病気やけがで働けないときの負担の目安</div></div><div class="item"><div class="iconbox" aria-hidden="true">◷</div><div>時期や条件で変わる備えの考え方</div></div></div></section>
+<section class="screen active" id="home"><div class="hero"><img src="__ASSET__family-riverside-wide-800.webp" srcset="__ASSET__family-riverside-wide-800.webp 800w, __ASSET__family-riverside-wide.webp 1280w" sizes="(max-width: 390px) 100vw, 390px" alt="川辺を散歩する4人の家族"></div><div class="section"><div class="eyebrow">中立的な必要保障額シミュレーター</div><h1 class="hero-copy">もしものときも、今も。<br>暮らしのお金を一緒に考える。</h1><p class="muted" style="margin:6px 0">病気・けが・万一に備えるためのお金を、今の暮らしに合わせて見える化します。</p><div class="note">保険商品を販売したり、申込みへ誘導したりしません。</div></div><div class="card"><h2 class="h2">あなたの条件で試算する</h2><p class="small">暮らし方に関する質問から始めます。あとから条件を変えて比較できます。</p><button class="btn full" onclick="show('input')">診断をはじめる <span aria-hidden="true">→</span></button></div><div class="card"><h2 class="h2">何がわかる？</h2><div class="item"><div class="iconbox" aria-hidden="true">⌂</div><div>本人に万一のことがあった場合に、家族に必要なお金</div></div><div class="item"><div class="iconbox" aria-hidden="true">♡</div><div>病気やけがで働けないときの負担の目安</div></div><div class="item"><div class="iconbox" aria-hidden="true">◷</div><div>時期や条件で変わる備えの考え方</div></div></div></section>
 <section class="screen" id="input"><div class="section"><div class="eyebrow">STEP 2 / 5　暮らしの条件</div><div class="progress" role="progressbar" aria-label="入力の進み具合" aria-valuemin="1" aria-valuemax="5" aria-valuenow="2"><i></i></div><h1 class="title">今の暮らしについて<br>教えてください</h1><p class="muted">試算に必要な条件を確認します。実際の実装では計算エンジンが要求するすべての入力を保持します。</p></div><div class="card"><div class="field" role="group" aria-labelledby="familyLabel"><b id="familyLabel">家族構成</b><div class="choicegroup" id="familyChoices"><button class="choice" aria-pressed="false" onclick="choose(this)">単身</button><button class="choice" aria-pressed="false" onclick="choose(this)">夫婦のみ</button><button class="choice on" aria-pressed="true" onclick="choose(this)">夫婦＋子ども</button><button class="choice" aria-pressed="false" onclick="choose(this)">その他</button></div></div><label class="field"><b>本人の年齢</b><select class="select" id="age"><option>30歳</option><option selected>40歳</option><option>50歳</option><option>60歳</option></select></label><label class="field"><b>本人の年収</b><select class="select">__INCOME__</select></label><label class="field"><b>現在の貯蓄</b><select class="select">__ASSETS__</select></label><div class="note">本画面はUI試作です。入力内容は保存・計算されません。選択肢の言葉は現行の質問（<code>src/wizard/labels.ts</code>）に合わせています。</div></div><div class="padded btnrow"><button class="btn secondary" onclick="show('home')">戻る</button><button class="btn" onclick="show('summary')">結果表示例へ <span aria-hidden="true">→</span></button></div></section>
 <section class="screen" id="summary"><div class="section"><div class="eyebrow">診断サマリー・サンプル</div><h1 class="title">必要なお金の目安を<br>確認しましょう</h1><p class="small">下記は特定のサンプル条件で計算済みの参考値です。今の画面入力には連動していません。</p></div><div class="card"><div class="small">本人が40歳で万一のことがあった場合</div><div class="label">必要な死亡保障の目安</div><div class="amount" id="summaryAmount"></div><span id="summaryBadge"></span><hr class="hr"><h2 class="h2">年齢による変化</h2><div class="legend" aria-hidden="true"><span><i class="lg-range"></i>必要額の幅</span><span><i class="lg-curve"></i>代表値</span></div><div id="summaryChart"></div><p class="small">計算済みサンプルの40〜64歳・25年分の値をそのまま描いています。縦軸は金額に比例します。</p><button class="btn secondary full" onclick="show('lab')">もしもラボで詳しく見る <span aria-hidden="true">→</span></button></div><div class="card"><h2 class="h2">診断結果の見方</h2><p class="muted">「不足の可能性」は入力条件に基づく判定です。保険への加入や購入を勧めるものではありません。</p><button class="btn quiet full" onclick="show('guide')">判定の意味を確認する</button></div></section>
 <section class="screen" id="lab"><div class="section"><div class="eyebrow">7つのもしもを比較</div><h1 class="title">もしものとき、<br>どんなお金が必要？</h1><p class="muted">それぞれ独立した試算です。金額は足し合わせたり、異なる算定方法のケースを単純に順位づけたりしません。</p></div><div class="card"><h2 class="h2">医療・休職などのケース</h2><p class="small" style="margin-top:-4px">貯蓄の比較帯：<b id="savingsBand"></b>と比べた判定です。</p><div id="scenarioList"></div><div class="note">「未算定」のケースは必要額を推測せず、表示を分けています。</div></div><div class="card"><h2 class="h2">本人に万一のことがあった場合</h2><div class="small" id="deathCaption"></div><div class="amount" id="labAmount" aria-live="polite"></div><span id="labBadge"></span><p class="small">死亡保障は資産等の控除後の計算であり、病気や休職の費用とは直接比較できません。</p><div class="legend" aria-hidden="true"><span><i class="lg-range"></i>必要額の幅</span><span><i class="lg-curve"></i>代表値</span></div><div id="labChart"></div><label class="field" for="ageSlider" style="margin-bottom:4px"><b>万一の年齢 <span id="ageout">40歳</span></b></label><input class="slider" id="ageSlider" type="range" min="40" max="64" value="40" oninput="setAge(+this.value)"/><div class="ends" aria-hidden="true"><span>40歳・いま</span><span>64歳</span></div><div class="note warning" style="margin-top:12px">年齢を動かすと、計算済みサンプルの25年分（40〜64歳）の値に切り替わります。条件入力の画面とは連動しません。</div><details><summary>年齢ごとの金額（25年分）</summary><div class="details"><table class="ages"><thead><tr><th>本人の年齢</th><th>必要な死亡保障のめやす</th></tr></thead><tbody id="ageTable"></tbody></table></div></details><button class="btn secondary full" style="margin-top:12px" data-death-detail onclick="detail('death')">計算の前提を見る <span aria-hidden="true">→</span></button></div></section>

diff --git a/design/handoff/moshimo-lab-v2/review/ASSET_GAPS.md b/design/handoff/moshimo-lab-v2/review/ASSET_GAPS.md
@@ -34,3 +34,21 @@ ILLUSTRATION_GUIDELINES §3 の「各セグメントに hero／card／spot」に
 - 金額・ラベル・UI の文字を画像に入れない
 - 配信用は WebP/AVIF。390px の 2x で幅 780px 以上
 - 文字を重ねる版は、文字が乗る領域に顔や細かい背景を置かない
+
+## 2026-10-17 追記：横長ヒーロー6枚の受け取り（A-1〜A-4）
+
+Naomi さんが `IMAGE_PROMPTS.md` で作った 1672×941（16:9）の PNG を、WebP（1280×720 と 800×450）にした。置き場は PR #4（`claude/fintech-tokens`）の `public/illustrations/`。試作のホームは家族の横長版（`assets/family-riverside-wide*.webp`）に差し替えた。
+
+| # | ファイル（public/illustrations/） | 左3分の1の余白 | 390×228 の切り抜き | 参照との一致 |
+|---|---|---|---|---|
+| A-1 | `family/hero-riverside-wide.webp` | 空・水面・木だけ | 4人とも顔が切れない | **服が参照と違う**：男の子は縞のTシャツと緑の短パン → 白T＋ベージュのパンツ、女の子は淡い花柄 → 青い花柄。並びも参照（左に父）と逆（左に母）。顔立ち・髪型・画風は近い |
+| A-2a | `senior/hero-solo.webp` | 空・水面・木だけ | 顔が切れない（頭の上の余白は約8%と少なめ） | 参照の夫婦の男性と同じ顔・服 |
+| A-2b | `senior/hero-couple.webp` | 同上 | 同上 | 参照の夫婦とほぼ同じ（顔・服・小物） |
+| A-3a | `single-male/hero-weekend.webp` | 同上 | 顔が切れない | 顔・髪・服は参照と同じ。タブレットがマグに変わった |
+| A-3b | `single-female/hero-weekend.webp` | 同上 | 顔が切れない | 顔・髪・服は参照と同じ。タブレットがマグに変わった |
+| A-4 | `shared/hero-neutral.webp` | 空と水面 | 人物なし | 画風・光・色が家族の画像とそろっている |
+
+- 6枚とも、文字・数字・ロゴ・看板・不安を連想させるものは入っていない
+- 390px の幅だと人物の顔は 15px 前後と小さい。人物を見せたい画面は、高さを 228px より上げるか、カード用（A-5）の寄りの絵で補う
+- 見出しを左3分の1に重ねる案も確かめた（`design/screenshots/illustrations/`）。390px で左3分の1は約130px しかなく、「もしものときも、今も。」が「とき／も」で折り返す。**見出しは画像の下（D-1）のままを推奨**
+- 残り：A-5〜A-10。A-1 は服の違いを直すか、このまま承認するかを Naomi さんが決める
